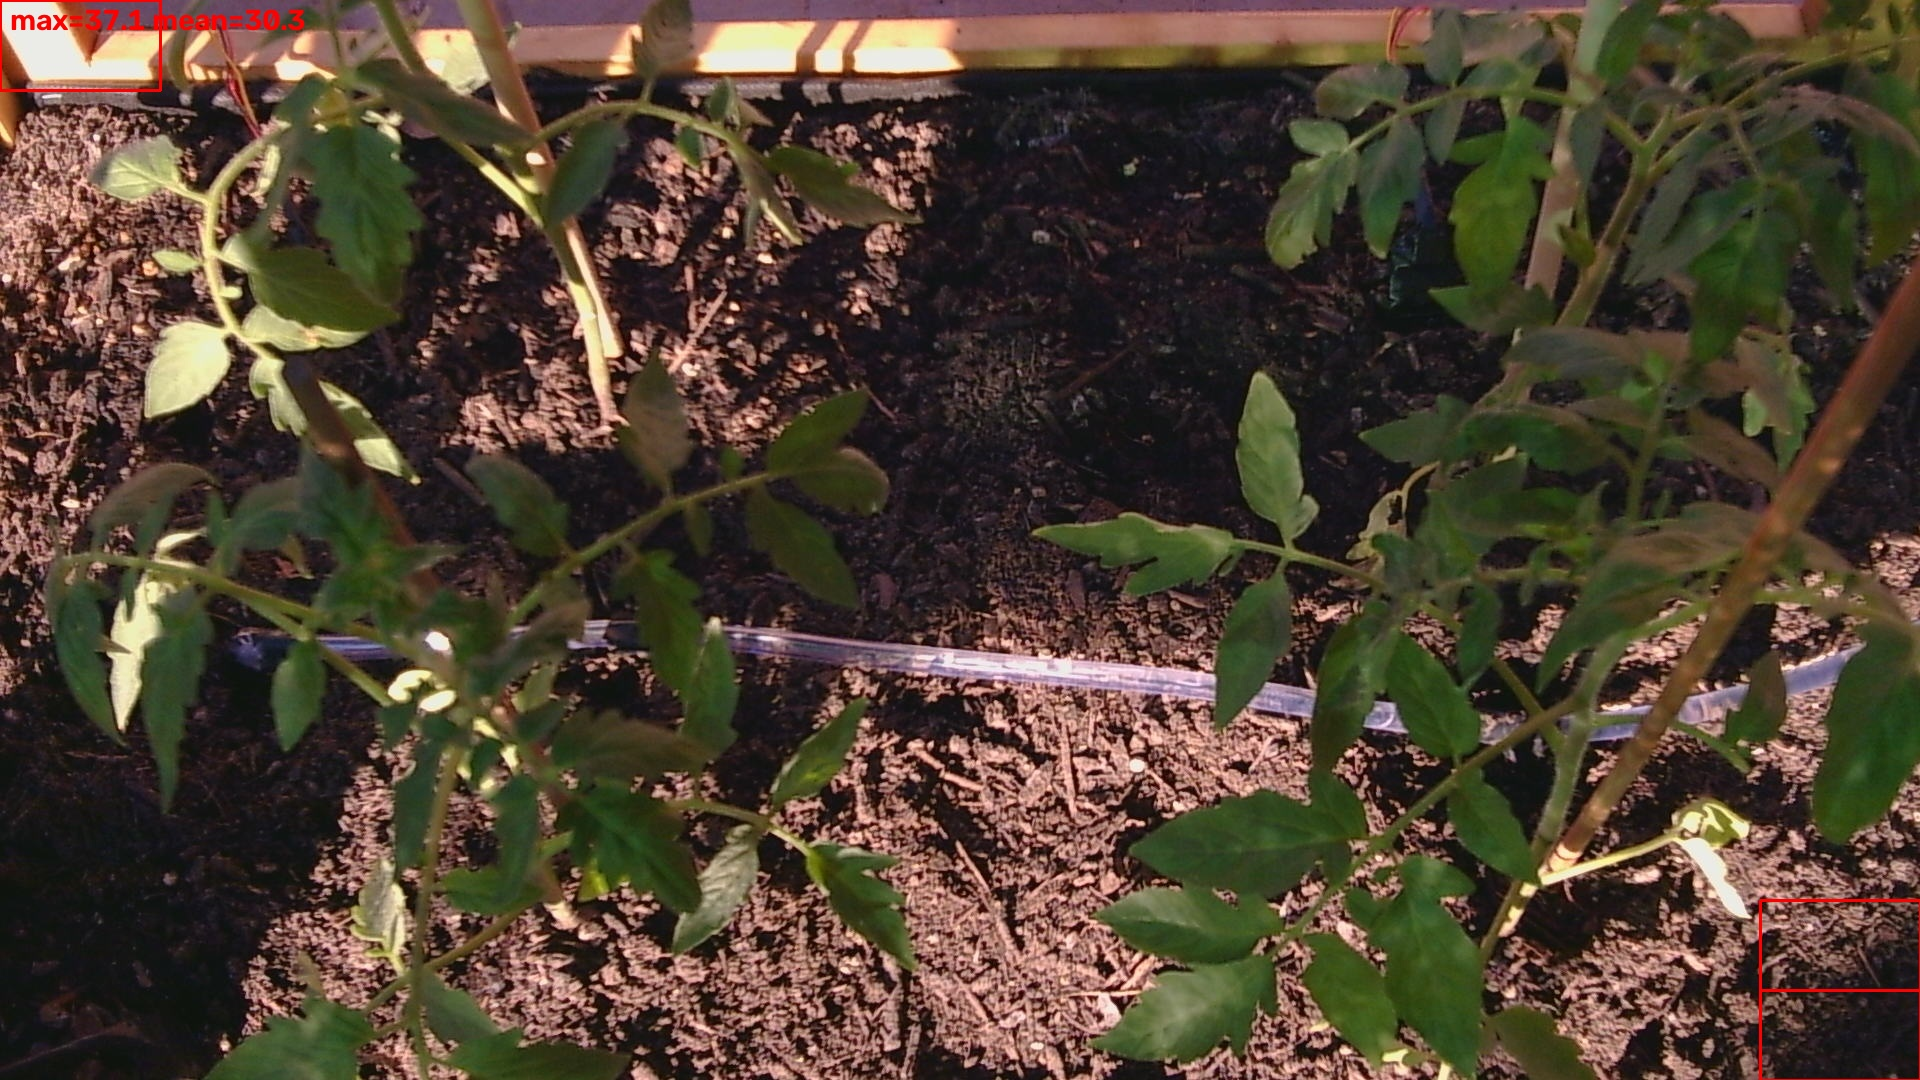
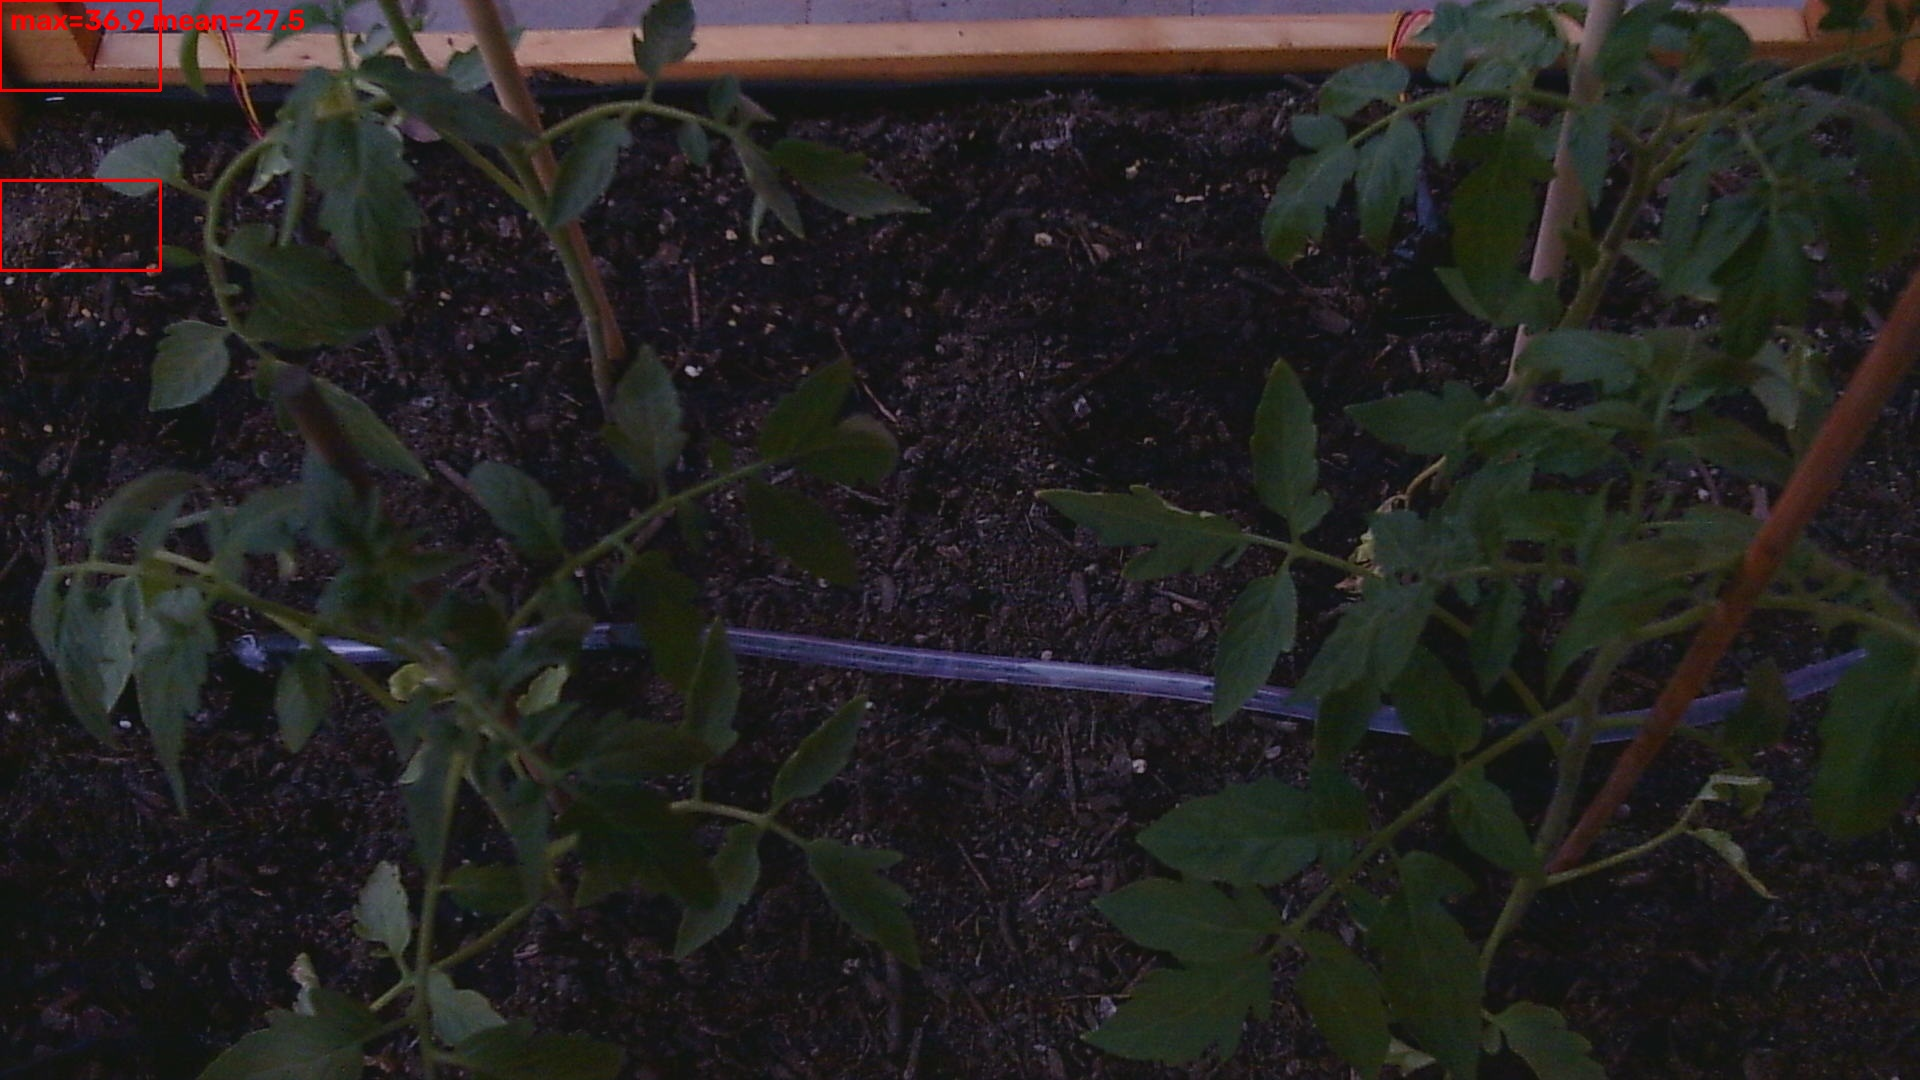
Urban Agriculture v 1.1

diff --git a/README.md b/README.md
@@ -117,7 +117,7 @@ The project still follows the standard App Lab layout (`app.yaml`, `sketch/`, `p
 | Reporting | Google Sheets (Apps Script webhook), Telegram Bot API (hand-rolled client) |
 | Deployment | systemd service, always-on on the board |
 
-## Running it manually (no Applab)
+## Running it manually (no Applab no Systemctl)
 
 ```bash
 # Environment and dependencies
